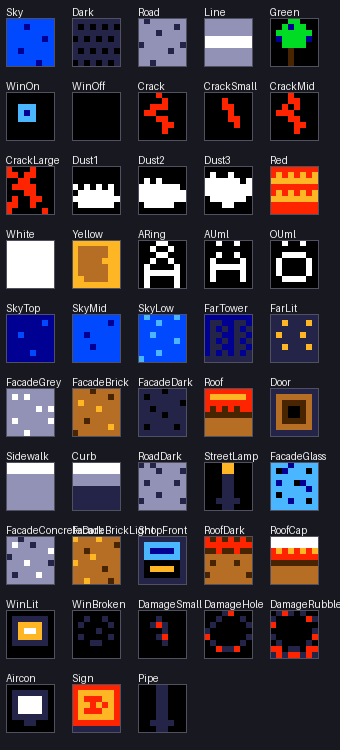
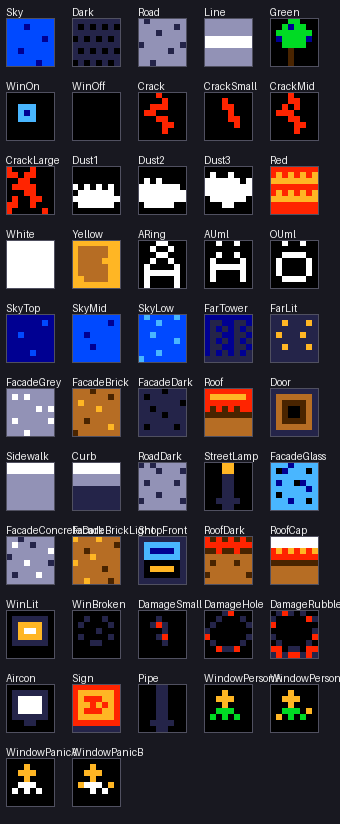
Animate window people tiles

diff --git a/src/main.c b/src/main.c
@@ -121,6 +121,10 @@
 #define TILE_AIRCON      (TILE_USER_INDEX + 46)
 #define TILE_SIGN        (TILE_USER_INDEX + 47)
 #define TILE_PIPE        (TILE_USER_INDEX + 48)
+#define TILE_WINDOW_PERSON_A (TILE_USER_INDEX + 49)
+#define TILE_WINDOW_PERSON_B (TILE_USER_INDEX + 50)
+#define TILE_WINDOW_PANIC_A  (TILE_USER_INDEX + 51)
+#define TILE_WINDOW_PANIC_B  (TILE_USER_INDEX + 52)
 
 typedef enum
 {
@@ -507,6 +511,10 @@ static void loadTiles(void)
     VDP_loadTileData(tileAircon, TILE_AIRCON, 1, DMA);
     VDP_loadTileData(tileSign, TILE_SIGN, 1, DMA);
     VDP_loadTileData(tilePipe, TILE_PIPE, 1, DMA);
+    VDP_loadTileData(tileWindowPersonA, TILE_WINDOW_PERSON_A, 1, DMA);
+    VDP_loadTileData(tileWindowPersonB, TILE_WINDOW_PERSON_B, 1, DMA);
+    VDP_loadTileData(tileWindowPanicA, TILE_WINDOW_PANIC_A, 1, DMA);
+    VDP_loadTileData(tileWindowPanicB, TILE_WINDOW_PANIC_B, 1, DMA);
 }
 
 static void playTone(u16 tone, u8 length)
@@ -744,6 +752,21 @@ static void drawBuildingChunks(const Building *b, u8 visibleH, u8 drawY)
         drawBuildingDamageMark(b, d, visibleH, drawY);
 }
 
+static u8 windowPersonTile(const Building *b, u8 p)
+{
+    const bool wave = (((frame >> 4) + p + b->x) & 1) != 0;
+    if (b->personEdible[p]) return wave ? TILE_WINDOW_PERSON_B : TILE_WINDOW_PERSON_A;
+    return wave ? TILE_WINDOW_PANIC_B : TILE_WINDOW_PANIC_A;
+}
+
+static void clearWindowPersonTile(const Building *b, u8 p)
+{
+    const u8 x = b->personX[p];
+    const u8 y = b->personY[p];
+    if (y >= HUD_TILES_H && y < FLOOR_Y && x < SCREEN_TILES_W)
+        VDP_setTileMapXY(BG_B, attr(PAL0, TILE_WIN_BROKEN), x, y);
+}
+
 static u8 buildingStyle(const Building *b)
 {
     return ((b->x / 2) + b->w + b->h) & 3;
@@ -758,11 +781,6 @@ static u8 buildingBodyTile(const Building *b)
         case 2: return TILE_FACADE_GLASS;
         default: return TILE_YELLOW;
     }
-}
-
-static u8 buildingShadeTile(const Building *b)
-{
-    return buildingStyle(b) == 2 ? TILE_FACADE_DARK : TILE_FACADE_CONCRETE_DARK;
 }
 
 static u8 buildingAccentTile(const Building *b)
@@ -797,19 +815,13 @@ static void drawBuilding(const Building *b)
     }
 
     const u8 bodyTile = buildingBodyTile(b);
-    const u8 shadeTile = buildingShadeTile(b);
     const u8 accentTile = buildingAccentTile(b);
     const u8 roofTile = buildingStyle(b) == 2 ? TILE_ROOF_DARK : TILE_ROOF;
 
     VDP_fillTileMapRect(BG_B, attr(PAL0, bodyTile), b->x, drawY, b->w, visibleH);
     VDP_fillTileMapRect(BG_B, attr(PAL0, roofTile), b->x, drawY, b->w, 1);
     if (!b->collapsing) VDP_fillTileMapRect(BG_B, attr(PAL0, TILE_ROOF_CAP), b->x, drawY, b->w, 1);
-    VDP_fillTileMapRect(BG_B, attr(PAL0, shadeTile), b->x, drawY, 1, visibleH);
     if (!b->collapsing && visibleH > 2) VDP_fillTileMapRect(BG_B, attr(PAL0, TILE_RED), b->x + 1, drawY + visibleH - 2, b->w - 2, 1);
-    if (b->w > 4 && visibleH > 2)
-    {
-        VDP_fillTileMapRect(BG_B, attr(PAL0, accentTile), b->x + b->w - 1, drawY + 1, 1, visibleH - 2);
-    }
     for (u8 yy = 3; yy + 1 < visibleH; yy += 3)
     {
         VDP_fillTileMapRect(BG_B, attr(PAL0, accentTile), b->x + 1, drawY + yy, b->w - 1, 1);
@@ -844,7 +856,7 @@ static void drawBuilding(const Building *b)
     {
         if (!b->personAlive[p]) continue;
         if (b->personY[p] < drawY || b->personY[p] >= drawY + visibleH) continue;
-        VDP_setTileMapXY(BG_B, attr(PAL0, b->personEdible[p] ? TILE_GREEN : TILE_WHITE), b->personX[p], b->personY[p]);
+        VDP_setTileMapXY(BG_B, attr(PAL0, windowPersonTile(b, p)), b->personX[p], b->personY[p]);
     }
 }
 
@@ -853,6 +865,21 @@ static void drawBuildings(void)
     drawSkyline();
     for (u8 i = 0; i < MAX_BUILDINGS; i++) drawBuilding(&buildings[i]);
     drawRoad();
+}
+
+static void updateWindowPeopleTiles(void)
+{
+    for (u8 i = 0; i < MAX_BUILDINGS; i++)
+    {
+        const Building *b = &buildings[i];
+        if (!b->alive || b->collapsing) continue;
+
+        for (u8 p = 0; p < MAX_WINDOW_PEOPLE; p++)
+        {
+            if (!b->personAlive[p]) continue;
+            VDP_setTileMapXY(BG_B, attr(PAL0, windowPersonTile(b, p)), b->personX[p], b->personY[p]);
+        }
+    }
 }
 
 static void drawHud(void)
@@ -1289,6 +1316,7 @@ static void releaseWindowPeopleNear(Building *b, u8 hitX, u8 hitY)
         if (dx < -1 || dx > 1 || dy < -1 || dy > 1) continue;
 
         b->personAlive[p] = FALSE;
+        clearWindowPersonTile(b, p);
         spawnPerson((s16)b->personX[p] * 8, (s16)b->personY[p] * 8, TRUE, b->personEdible[p]);
     }
 }
@@ -1301,6 +1329,7 @@ static void releaseWindowPeopleAbove(Building *b, u8 tileY)
         if (b->personY[p] >= tileY) continue;
 
         b->personAlive[p] = FALSE;
+        clearWindowPersonTile(b, p);
         spawnPerson((s16)b->personX[p] * 8, (s16)b->personY[p] * 8, TRUE, b->personEdible[p]);
     }
 }
@@ -2201,6 +2230,7 @@ static void handleState(u16 joy)
             updateThreats();
             if (((frame & 7) == 0) && hasActiveHelicopter()) playRotorTone();
             updateBuildingCollapse();
+            if ((frame & 15) == 0) updateWindowPeopleTiles();
             if (state == STATE_GAME_OVER)
             {
                 resetSpriteEngineState();

diff --git a/src/stage_tiles.h b/src/stage_tiles.h
@@ -69,5 +69,9 @@ static const u32 tileDamageRubble[8] = {0x0B8B0B00,0xB000008B,0x80000000,0x00000
 static const u32 tileAircon[8] = {0x00000000,0x0BBBBBB0,0x0B9999B0,0x0B9FF9B0,0x0B9999B0,0x0BBBBBB0,0x000BB000,0x00000000};
 static const u32 tileSign[8] = {0x88888888,0x8DDDDDD8,0x8D888DD8,0x8DD8D8D8,0x8D888DD8,0x8DDDDDD8,0x88888888,0xBBBBBBBB};
 static const u32 tilePipe[8] = {0x000BB000,0x000BB000,0x000BB000,0x000BB000,0x000BB000,0x000BB000,0x00BBBB00,0x000BB000};
+static const u32 tileWindowPersonA[8] = {0x00000000,0x000D0000,0x00DDD000,0x000D0000,0x00444000,0x04040400,0x00000000,0x00000000};
+static const u32 tileWindowPersonB[8] = {0x00000000,0x000D0000,0x00DDD000,0x000D0000,0x004440D0,0x0D040400,0x00000000,0x00000000};
+static const u32 tileWindowPanicA[8] = {0x00000000,0x000D0000,0x00DDD000,0x000D0000,0x00999000,0x09090900,0x00000000,0x00000000};
+static const u32 tileWindowPanicB[8] = {0x00000000,0x000D0000,0x00DDD000,0x000D0000,0x0D9990D0,0x00090900,0x00000000,0x00000000};
 
 #endif